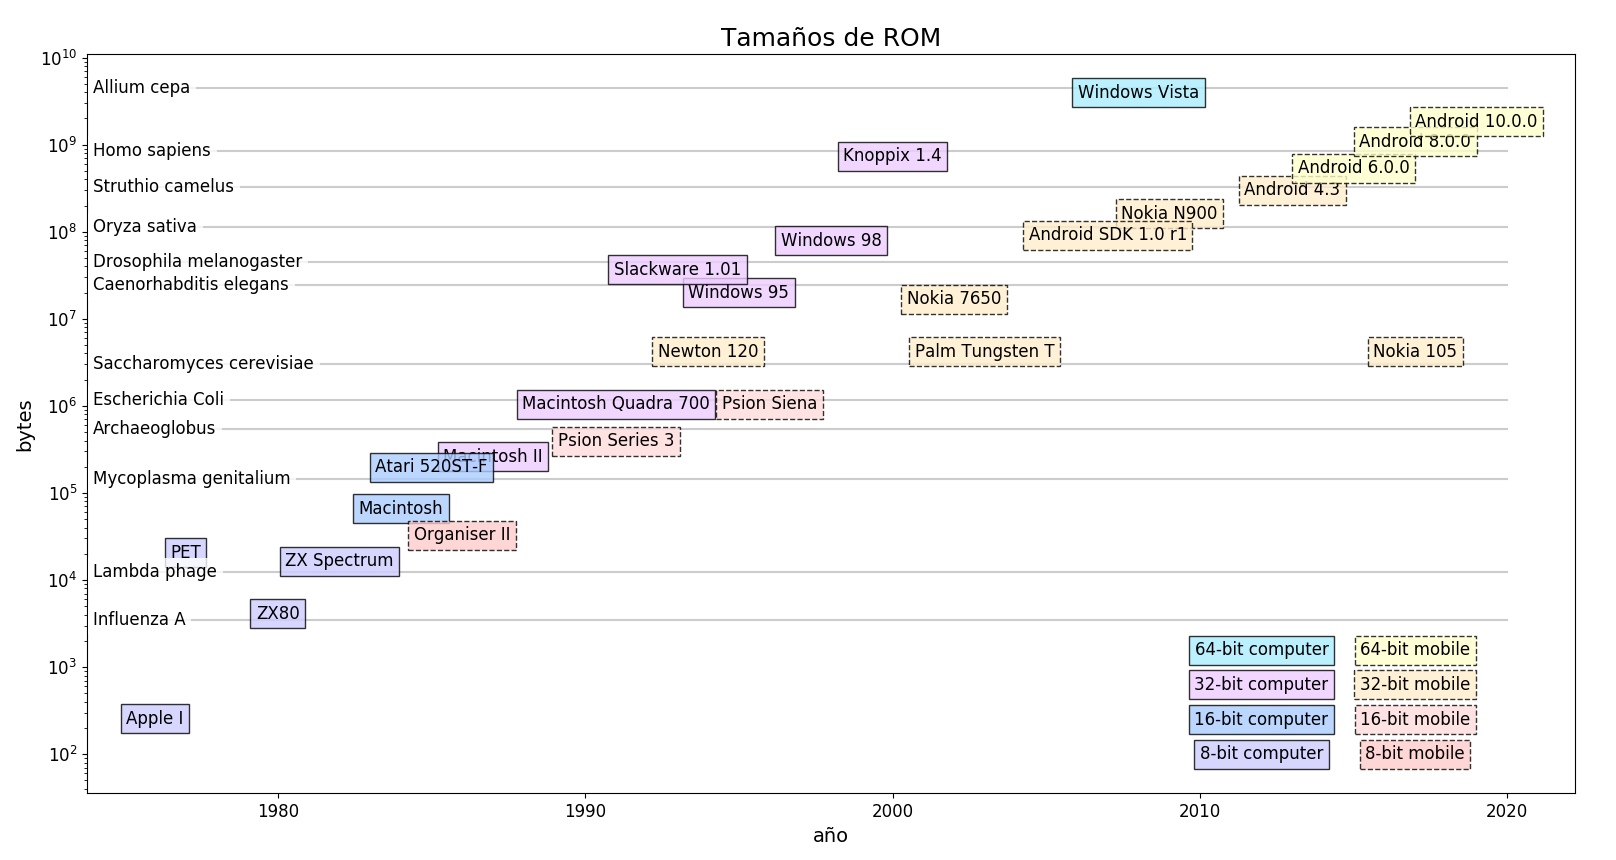
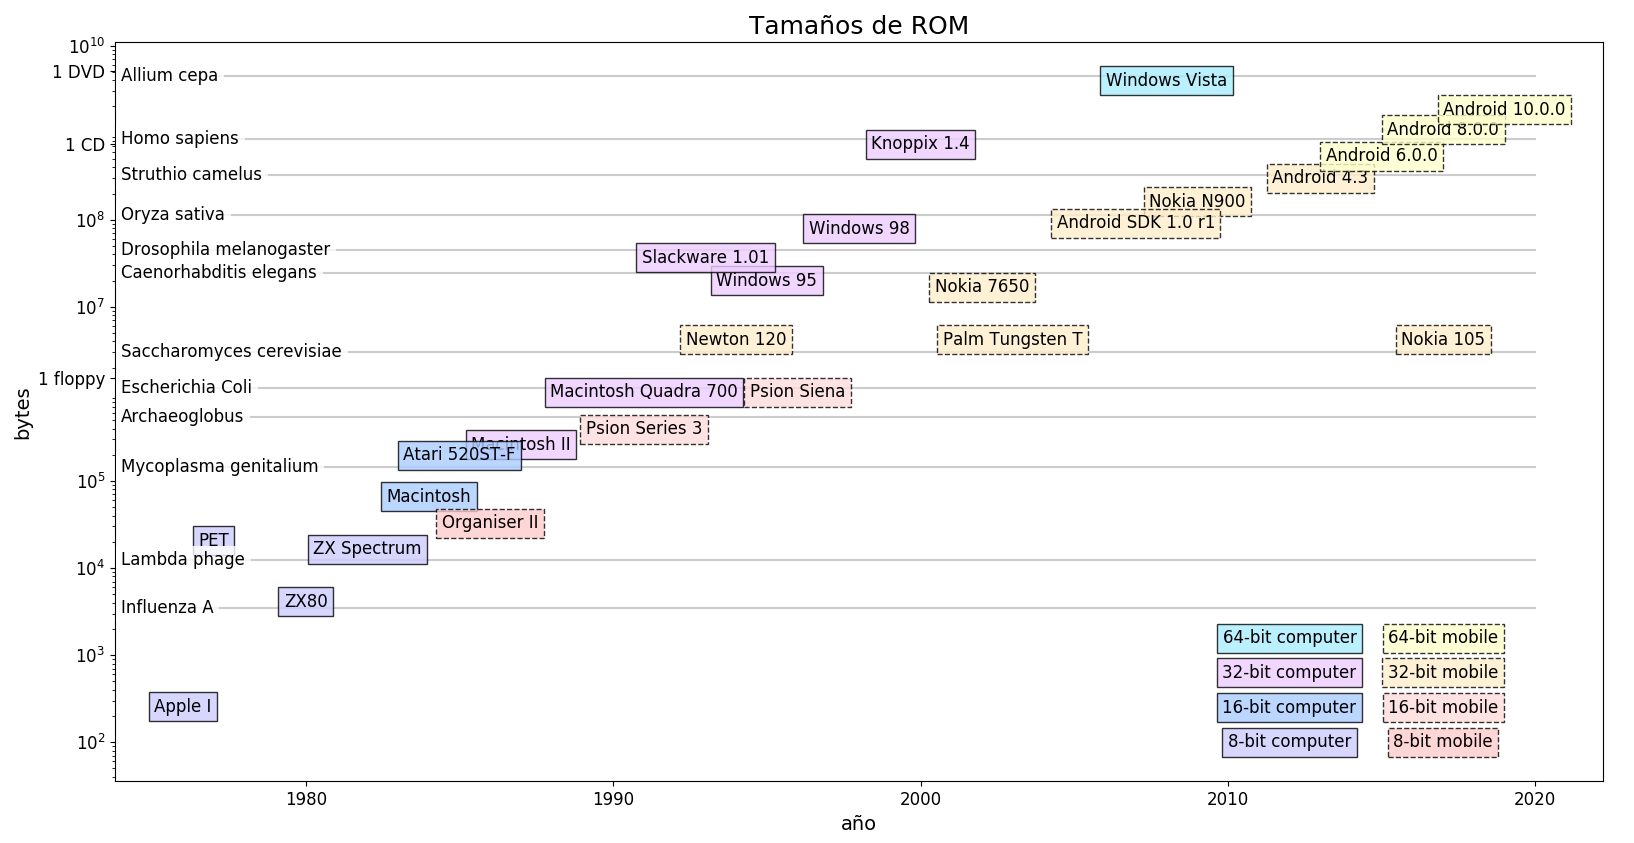
Make on 2020-01-27T01:52:12Z

diff --git a/2020/rom-sizes/generate-chart.py b/2020/rom-sizes/generate-chart.py
@@ -64,8 +64,22 @@ plt.xticks(fontsize=12)
 plt.yticks(fontsize=12)
 plt.xlabel(u'año', fontdict = {'fontsize' : 14})
 plt.ylabel('bytes', fontdict = {'fontsize' : 14})
-
 plt.title(u'Tamaños de ROM', fontdict = {'fontsize' : 18})
+
+ylocs = []
+ylabels = []
+i = 0
+for i in range(2, 11):
+    ylocs.append(10**i)
+    ylabels.append("$10^{{{0}}}$".format(i))
+
+ylocs[4] = 1509950
+ylabels[4] = '1 floppy'
+ylocs[7] = 734003200
+ylabels[7] = '1 CD'
+ylocs.append(5046586573)
+ylabels.append('1 DVD')
+plt.yticks(ylocs, ylabels)
 
 plt.show()
 
